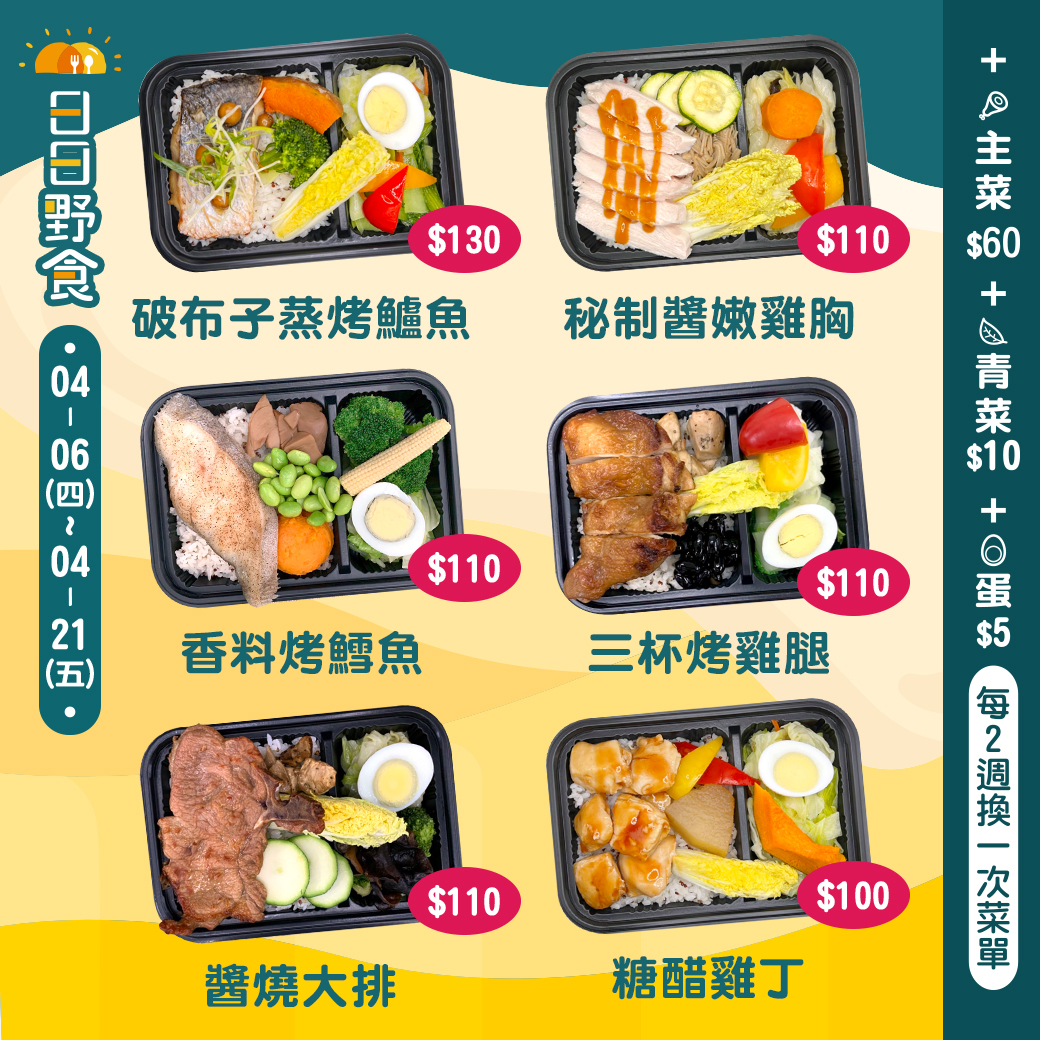
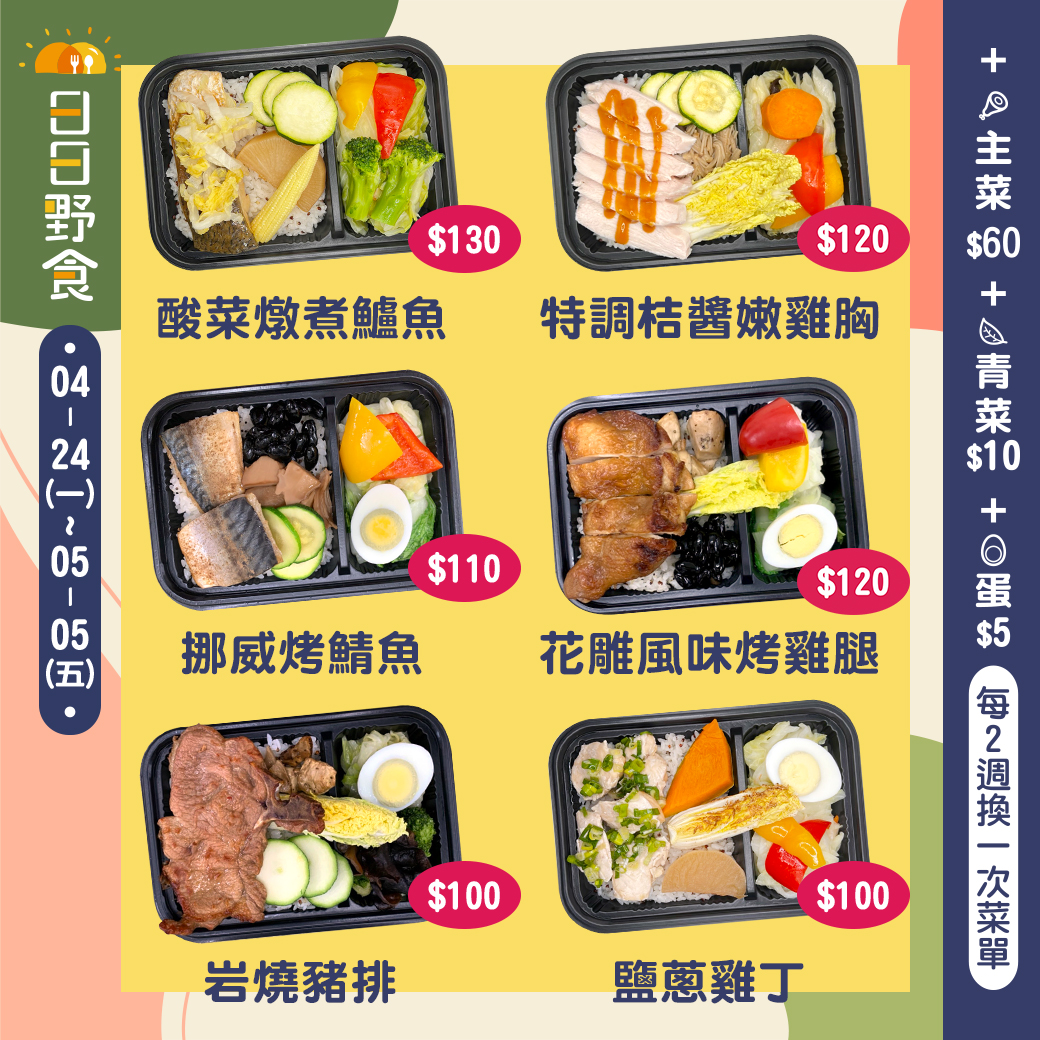
0424

diff --git a/menu/index.html b/menu/index.html
@@ -115,7 +115,7 @@
 <section id="blog-full-width">
 	<div class="container">
     <div class="section-heading">
-			<h1 class="title wow fadeInDown" data-wow-delay=".3s">🥦4/6(四)～4/21(五)最新菜單</h1>
+			<h1 class="title wow fadeInDown" data-wow-delay=".3s">🥦4/24(一)～5/5(五)最新菜單</h1>
 			<p class="wow fadeInDown" data-wow-delay=".5s">每2週換一次菜單，怎麼吃都吃不膩❤</p>
 		</div>
     <div class="row">
@@ -130,17 +130,18 @@
 				<div class="fadeInRight" data-wow-delay=".3s" data-wow-duration="500ms">
 					<p class="menuText mt-4 mt-md-0">
 						🥦健康餐盒(紅藜麥飯)<br/>
-						✨破布子蒸烤鱸魚 $130<br/>
-						✨秘制醬嫩雞胸 $110<br/>
-						✨三杯烤雞腿 $110<br/>
-						✨香料烤鱈魚 $110<br/>
-						✨糖醋雞丁 $100<br/>
-						✨醬燒大排 $100<br/>
-						-<br/>
-						人客敲碗的破布子鱸魚回來了🥰<br/>
-						鮮嫩鱸魚配上獨特的破布子蒸烤<br/>
-						讓每一口都能夠品嚐到甘甜香氣！<br/>
-						快來預訂明天的午餐吧~<br/>
+            ✨特調桔醬嫩雞胸 $120<br/>
+            ✨花雕風味烤雞腿 $120<br/>
+            ✨岩燒豬排 $100<br/>
+            ✨鹽蔥雞丁 $100<br/>
+            ✨挪威烤鯖魚 $110<br/>
+            ✨酸菜燉煮鱸魚 $130<br/>
+            -<br/>
+            新鮮的挪威鯖魚<br/>
+            經過特別的烤製技巧而成<br/>
+            口感鮮美，肉質滑嫩😋<br/>
+            難怪很多客人都吃不膩<br/>
+            前一天預訂餐盒，才不怕現場售完唷🥰<br/>
 						-<br/>
             ✅每日選用新鮮蔬菜<br/>
             ✅每兩週換一次菜單<br/>

diff --git a/index.html b/index.html
@@ -186,7 +186,7 @@
 <section id="works" class="works">
 	<div class="container">
 		<div class="section-heading">
-			<h1 class="title wow fadeInDown" data-wow-delay=".3s">🥦4/6(四)～4/21(五)最新菜單</h1>
+			<h1 class="title wow fadeInDown" data-wow-delay=".3s">🥦4/24(一)～5/5(五)最新菜單</h1>
 			<p class="wow fadeInDown" data-wow-delay=".5s">每2週換一次菜單，怎麼吃都吃不膩❤</p>
 		</div>
 		<div class="row">
@@ -201,17 +201,18 @@
 				<div class="fadeInRight" data-wow-delay=".3s" data-wow-duration="500ms">
 					<p class="menuText mt-4 mt-md-0">
 						🥦健康餐盒(紅藜麥飯)<br/>
-						✨破布子蒸烤鱸魚 $130<br/>
-						✨秘制醬嫩雞胸 $110<br/>
-						✨三杯烤雞腿 $110<br/>
-						✨香料烤鱈魚 $110<br/>
-						✨糖醋雞丁 $100<br/>
-						✨醬燒大排 $100<br/>
+						✨特調桔醬嫩雞胸 $120<br/>
+						✨花雕風味烤雞腿 $120<br/>
+						✨岩燒豬排 $100<br/>
+						✨鹽蔥雞丁 $100<br/>
+						✨挪威烤鯖魚 $110<br/>
+						✨酸菜燉煮鱸魚 $130<br/>
 						-<br/>
-						人客敲碗的破布子鱸魚回來了🥰<br/>
-						鮮嫩鱸魚配上獨特的破布子蒸烤<br/>
-						讓每一口都能夠品嚐到甘甜香氣！<br/>
-						快來預訂明天的午餐吧~<br/>
+						新鮮的挪威鯖魚<br/>
+						經過特別的烤製技巧而成<br/>
+						口感鮮美，肉質滑嫩😋<br/>
+						難怪很多客人都吃不膩<br/>
+						前一天預訂餐盒，才不怕現場售完唷🥰<br/>
 						-<br/>
 						✅每日選用新鮮蔬菜<br/>
 						✅每兩週換一次菜單<br/>
